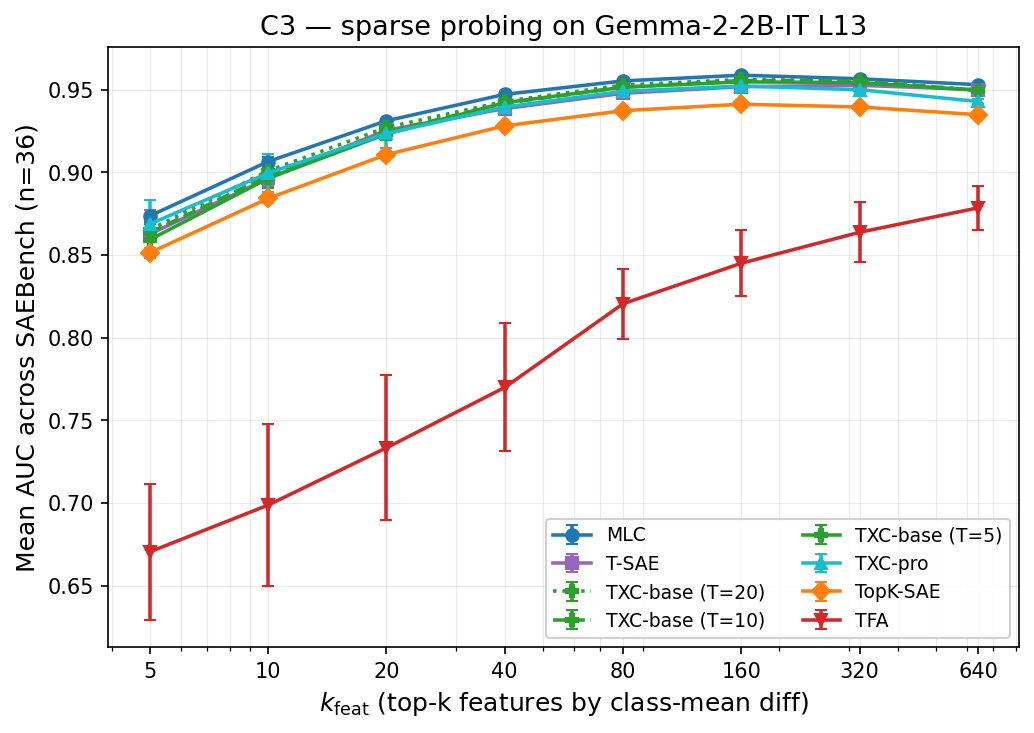
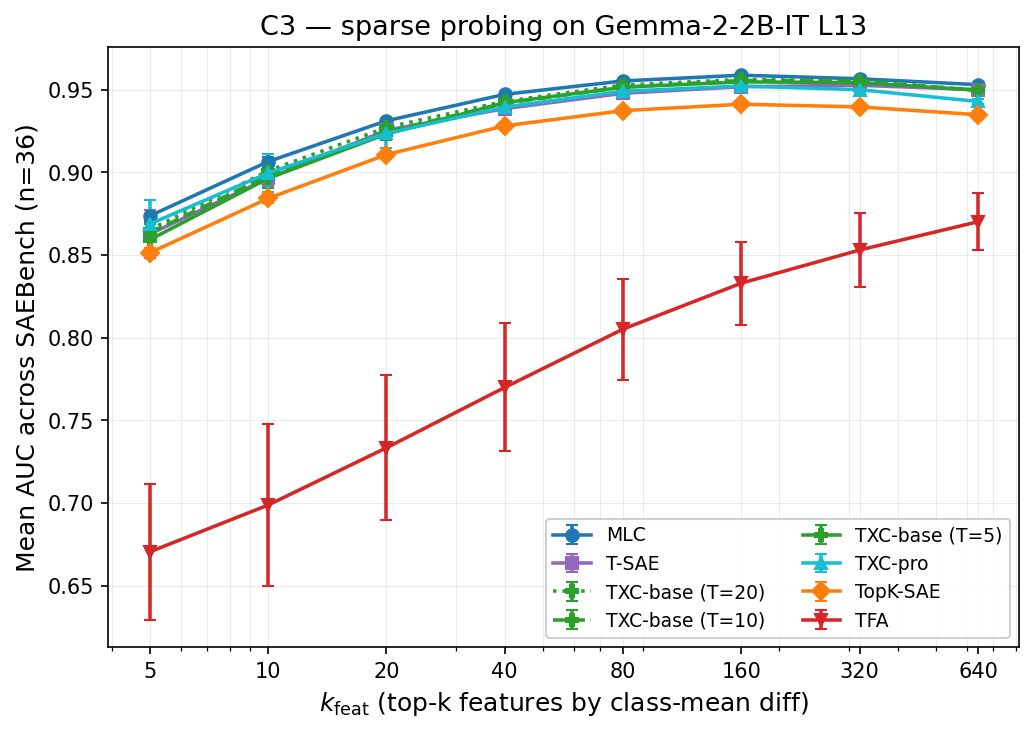
Agent NLP: post-RunPod-rescue resume — C3 k_feats expansion 13/13 COMPLETE
All 13 cells of the k_feats expansion mission are in:
- agent_nlp's 7 (commits 4e4a491b, 7c3bc1af): tfa seed=2 high-k tail
  + txc_base T=20 seed=42 high-k tail
- agent_em_100k's 6 (commits b7ce4646, 807ca50d): tfa seed=42 full column

c3.md AUTO-RESULTS re-rendered: TFA row now 3-seed across the full
8-k_feat sweep (no ·N partial markers anywhere). Final TFA peak:
0.870 @ k=640 (was 0.850 with N=2 seeds at the interim push). MLC's
0.959 @ k=160 stays the headline; cluster structure unchanged from
prior render (commits 5aba4953 + bebb561b).

This wraps the post-RunPod-rescue resume mission per the agent_paper
split (commit 213bc86d). Per-side leaderboard inventory:
- 60 prior canonical+T-sweep+C4 rows (pre-incident agent_nlp)
- 7 resume rows (commits 4e4a491b, 7c3bc1af)
- 6 borrow rows from agent_em_100k (their commit 807ca50d)
- All 26 rescue checkpoints already on HF (commit eaa75a10)

Changed region(s): [[0.4952, 0.2701, 0.9594, 0.5402], [0.7118, 0.4202, 0.7427, 0.4502]]

diff --git a/purified/docs/components/c3.md b/purified/docs/components/c3.md
@@ -211,7 +211,7 @@ Task suite: SAEBench (n=36). Subject: `gemma_2_2b_it_l13_fineweb_24k128`. Aggreg
 | `TXC-base (T=5)` | 0.859 | 0.896 | 0.923 | 0.942 | 0.951 | **0.955** | 0.954 | 0.950 | **0.955** @ k=160 |
 | `TXC-pro` | 0.869 | 0.899 | 0.923 | 0.939 | 0.949 | **0.952** | 0.950 | 0.943 | **0.952** @ k=160 |
 | `TopK-SAE` | 0.851 | 0.884 | 0.911 | 0.928 | 0.937 | **0.941** | 0.939 | 0.935 | **0.941** @ k=160 |
-| `TFA` | 0.670 | 0.699 | 0.733 | 0.770 | 0.820·2 | 0.845·2 | 0.864·2 | **0.878**·2 | **0.878** @ k=640 |
+| `TFA` | 0.670 | 0.699 | 0.733 | 0.770 | 0.805 | 0.833 | 0.853 | **0.870** | **0.870** @ k=640 |
 
 Cells with a `·N` suffix are means over N<3 seeds (in-flight cells; table will refresh when complete). `—` = no cell yet.
 
@@ -226,7 +226,7 @@ Cells with a `·N` suffix are means over N<3 seeds (in-flight cells; table will 
 | `TXC-base (T=5)` | 0.859 ± 0.005 | 0.923 ± 0.004 | 0.951 ± 0.001 | 0.955 ± 0.001 | 0.950 ± 0.001 |
 | `TXC-pro` | 0.869 ± 0.015 | 0.923 ± 0.009 | 0.949 ± 0.001 | 0.952 ± 0.000 | 0.943 ± 0.001 |
 | `TopK-SAE` | 0.851 ± 0.003 | 0.911 ± 0.002 | 0.937 ± 0.002 | 0.941 ± 0.001 | 0.935 ± 0.000 |
-| `TFA` | 0.670 ± 0.041 | 0.733 ± 0.044 | 0.820 ± 0.021 | 0.845 ± 0.020 | 0.878 ± 0.013 |
+| `TFA` | 0.670 ± 0.041 | 0.733 ± 0.044 | 0.805 ± 0.030 | 0.833 ± 0.025 | 0.870 ± 0.017 |
 
 ![AUC by k_feat — full](../../experiments/c3_probing/plots/auc_by_k.png)
 
